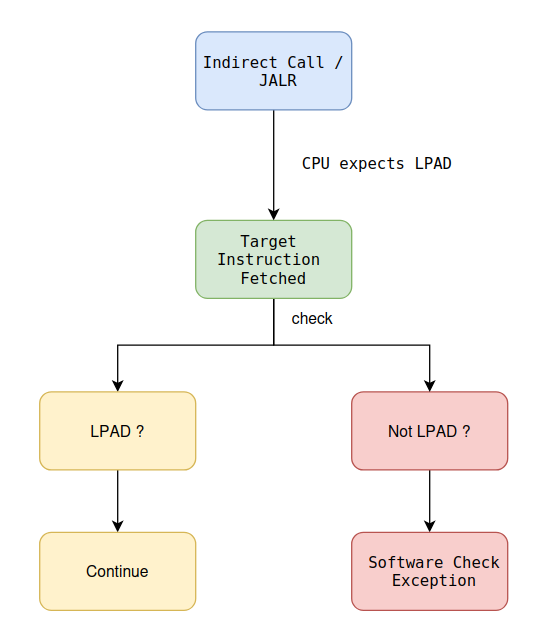
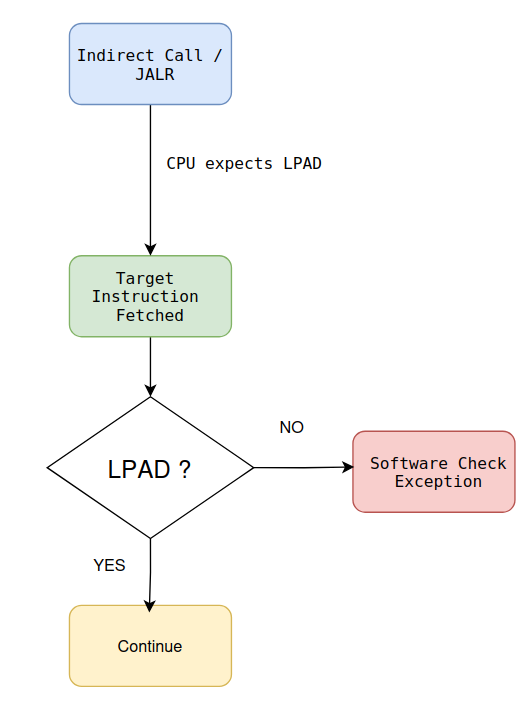
Modified flow diagrams in zicfilp and zicfiss

Changed region(s): [[0.0602, 0.0298, 0.9925, 0.9828], [0.5414, 0.2085, 0.8421, 0.268], [0.5113, 0.5956, 0.5714, 0.6254]]

diff --git a/BLOGS_Markdown/RISCV_ISA/zicfilp.md b/BLOGS_Markdown/RISCV_ISA/zicfilp.md
@@ -1,4 +1,9 @@
 # Understanding the RISC-V Control-Flow Integrity (CFI) ISA - Part 1: Landing Pads (Zicfilp) 
+
+<p align="center">
+  <img src="../../docs/riscv.png" alt="riscv" width="500">
+</p>
+
 ## Introduction
 
 I started studying the recently **RISC-V Control-Flow Integrity (CFI)** ISA extensions. I wanted to first understand **why these extensions exist** and **<mark class="bg-yellow-200 dark:bg-yellow-500/30">what security problems they solve</mark>**<mark class="bg-yellow-200 dark:bg-yellow-500/30">.</mark>

diff --git a/BLOGS_Markdown/RISCV_ISA/zicfiss.md b/BLOGS_Markdown/RISCV_ISA/zicfiss.md
@@ -1,5 +1,9 @@
 # Understanding the RISC-V Control-Flow Integrity (CFI) ISA - Part 2: Shadow Stack (Zicfiss)
 
+<p align="center">
+  <img src="../../docs/riscv.png" alt="riscv" width="500">
+</p>
+
 ## Introduction
 
 In the previous blog, I explored **Landing Pads (Zicfilp)**, which protect **forward-edge control flow** by ensuring that indirect branches only reach authorized destinations.